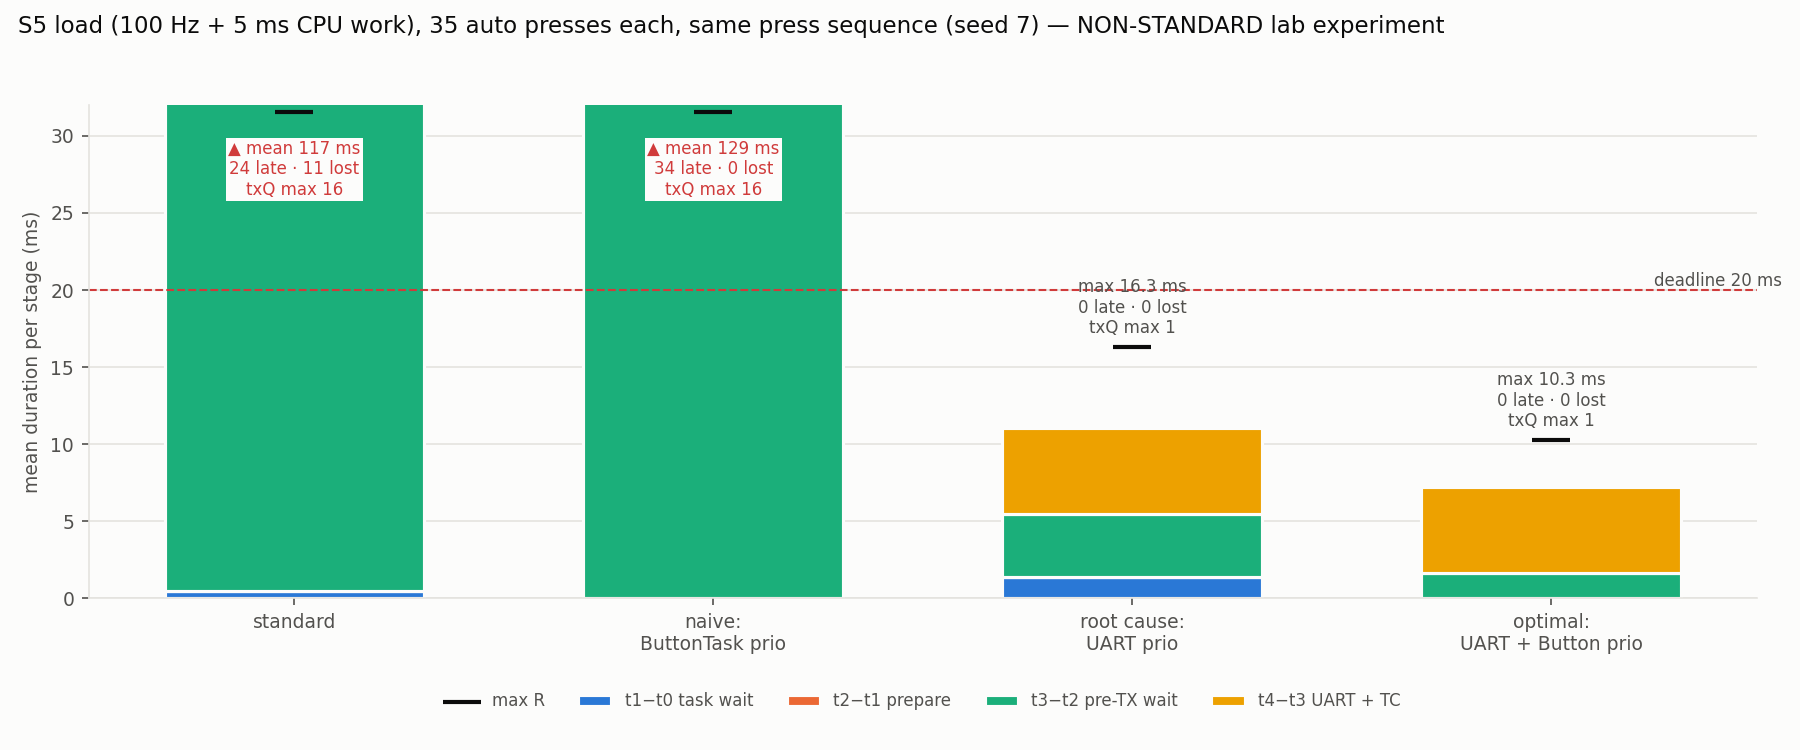
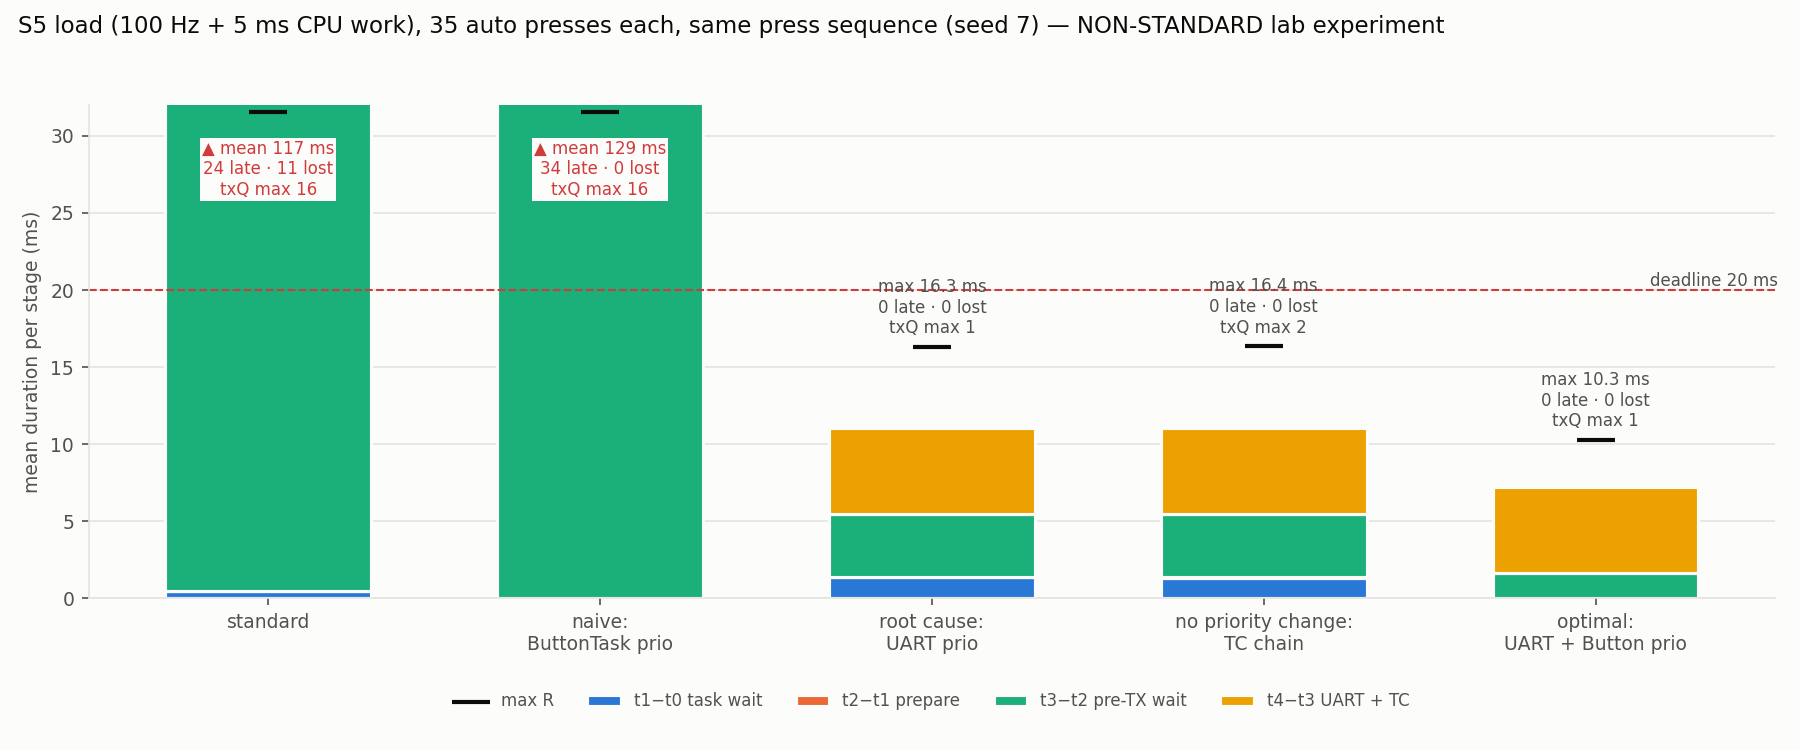
Add TC-chain fix that solves S5 without changing task priorities
- ENABLE_FIX_TC_CHAIN: the TC interrupt starts the next queued message,
  so the line never waits for the priority-1 UART task (fix mask 0x8)
- Measured on S5 with the same seed: 35/35 replies, max R 16.4 ms,
  priorities stay 3 > 2 > 1, smaller telemetry impact than F1
- Added as the fifth option in the lab UI, analysis plot and tests
- Report, ADR-004, README, observations and AI usage updated

diff --git a/hafta-01/firmware/odev01/App/uart_tx.c b/hafta-01/firmware/odev01/App/uart_tx.c
@@ -28,6 +28,14 @@ static volatile bool     s_cur_is_btn;
 static volatile uint32_t s_cur_id;
 static volatile bool     s_tx_failed;
 
+#ifdef ENABLE_FIX_TC_CHAIN
+/* F8: TC kesmesi kuyruktaki sonraki mesajı kendisi başlatır; UART görevinin
+   CPU alması beklenmez, görev öncelikleri değişmez. Zincir boşalınca (ya da
+   sırada export işareti varsa) görev uyandırılır. */
+static volatile bool s_chain_active;
+static bool chain_next_from_isr(BaseType_t *wake);
+#endif
+
 bool uart_tx_post(const TxMsg *m)
 {
     if (xQueueSend(s_txq, m, 0) != pdPASS)
@@ -53,7 +61,7 @@ QueueHandle_t uart_tx_queue(void)
 }
 
 /* s_tx_buf'taki len baytı IT ile gönderir ve TC'yi bekler (ADR-001). */
-static TxResult send_buf(uint16_t len, bool is_btn, uint32_t id)
+static TxResult send_buf(uint16_t len, bool is_btn, uint32_t id, bool chain)
 {
     /* Önceki aktarımdan (ör. timeout sonrası geç gelen TC) kalmış
        bildirimi beklemeden tüket. */
@@ -61,6 +69,11 @@ static TxResult send_buf(uint16_t len, bool is_btn, uint32_t id)
     s_tx_failed = false;
     s_cur_id = id;
     s_cur_is_btn = is_btn;
+#ifdef ENABLE_FIX_TC_CHAIN
+    s_chain_active = chain;
+#else
+    (void)chain;
+#endif
 
     if (is_btn)
     {
@@ -76,6 +89,13 @@ static TxResult send_buf(uint16_t len, bool is_btn, uint32_t id)
     /* TC kesmesini bekle. Gelmezse sonsuza kadar bekleme (R-UART-3). */
     if (ulTaskNotifyTake(pdTRUE, pdMS_TO_TICKS(UART_TX_TIMEOUT_MS)) == 0U)
     {
+#ifdef ENABLE_FIX_TC_CHAIN
+        s_chain_active = false;
+        if (chain && s_cur_is_btn)
+        {
+            records_set_status(s_cur_id, ST_TIMEOUT);   /* zincirin o anki mesajı */
+        }
+#endif
         s_cur_is_btn = false;             /* geç gelen TC t4 yazmasın */
         HAL_UART_AbortTransmit(&huart2);
         g_stats.uart_timeout++;
@@ -85,7 +105,10 @@ static TxResult send_buf(uint16_t len, bool is_btn, uint32_t id)
     {
         return TX_ERROR;
     }
-    g_stats.uart_tx_ok++;
+    if (!chain)
+    {
+        g_stats.uart_tx_ok++;             /* zincirde her TC kesmesinde sayılır */
+    }
     return TX_OK;
 }
 
@@ -93,13 +116,17 @@ static TxResult send_buf(uint16_t len, bool is_btn, uint32_t id)
 void uart_tx_send_line(const char *s, uint16_t len)
 {
     memcpy(s_tx_buf, s, len);
-    (void)send_buf(len, false, 0);
+    (void)send_buf(len, false, 0, false);
 }
 
 static void UartTxTask(void *arg)
 {
     (void)arg;
     TxMsg m;
+    bool chain = false;
+#ifdef ENABLE_FIX_TC_CHAIN
+    chain = (run_config()->fix_mask & FIX_TC_CHAIN) != 0U;
+#endif
 #if APP_LAB_MODE
     lab_start();                          /* RX'i kur, LAB satırını gönder */
 #endif
@@ -120,9 +147,10 @@ static void UartTxTask(void *arg)
 
         memcpy(s_tx_buf, m.data, MSG_LEN);
         const bool is_btn = (m.type == MSG_BTN);
-        TxResult r = send_buf(MSG_LEN, is_btn, m.event_id);
+        TxResult r = send_buf(MSG_LEN, is_btn, m.event_id, chain);
 
-        if (is_btn)
+        /* Zincirde ilk mesajdan sonrakilerin durumu kesmede yazılır. */
+        if (is_btn && (!chain || r == TX_START_ERR))
         {
             if (r == TX_TIMEOUT)
             {
@@ -173,9 +201,52 @@ void HAL_UART_TxCpltCallback(UART_HandleTypeDef *huart)
         s_cur_is_btn = false;
     }
     BaseType_t wake = pdFALSE;
+#ifdef ENABLE_FIX_TC_CHAIN
+    if (s_chain_active)
+    {
+        g_stats.uart_tx_ok++;
+        if (chain_next_from_isr(&wake))
+        {
+            portYIELD_FROM_ISR(wake);     /* zincir sürüyor, görev uyumaya devam */
+            return;
+        }
+        s_chain_active = false;
+    }
+#endif
     vTaskNotifyGiveFromISR(s_task, &wake);
     portYIELD_FROM_ISR(wake);
 }
+
+#ifdef ENABLE_FIX_TC_CHAIN
+/* Kuyrukta veri mesajı varsa alır ve gönderimi başlatır (t3 burada). */
+static bool chain_next_from_isr(BaseType_t *wake)
+{
+    TxMsg next;
+    if (xQueuePeekFromISR(s_txq, &next) != pdPASS || next.type == MSG_CTRL_EXPORT)
+    {
+        return false;                     /* boş ya da export: görev devralır */
+    }
+    (void)xQueueReceiveFromISR(s_txq, &next, wake);
+    memcpy(s_tx_buf, next.data, MSG_LEN);
+    s_cur_id = next.event_id;
+    s_cur_is_btn = (next.type == MSG_BTN);
+    if (s_cur_is_btn)
+    {
+        records_stamp(s_cur_id, T3, timer_us());
+    }
+    if (HAL_UART_Transmit_IT(&huart2, s_tx_buf, MSG_LEN) != HAL_OK)
+    {
+        if (s_cur_is_btn)
+        {
+            records_set_status(s_cur_id, ST_TX_ERROR);
+        }
+        s_cur_is_btn = false;
+        g_stats.uart_start_err++;
+        return false;
+    }
+    return true;
+}
+#endif
 
 void HAL_UART_ErrorCallback(UART_HandleTypeDef *huart)
 {

diff --git a/hafta-01/interface/tests/test_runs.py b/hafta-01/interface/tests/test_runs.py
@@ -3,7 +3,7 @@ import sys
 from pathlib import Path
 
 sys.path.insert(0, str(Path(__file__).resolve().parents[1]))
-from labctl import FIX_BTN_PRIO, FIX_PRESETS, FIX_UART_PRIO, LabConfig, fix_label  # noqa: E402
+from labctl import FIX_BTN_PRIO, FIX_PRESETS, FIX_TC_CHAIN, FIX_UART_PRIO, LabConfig, fix_label  # noqa: E402
 from runs import default_runs  # noqa: E402
 
 RUNS = {r.cfg.get("scenario") + ("/official" if r.official else ""): r for r in default_runs()}
@@ -12,9 +12,10 @@ RUNS = {r.cfg.get("scenario") + ("/official" if r.official else ""): r for r in 
 def test_defaults_include_official_and_lab_runs():
     assert {f"S{i}/official" for i in range(6)} <= set(RUNS)
     assert {"S5a", "S5-F1a", "S5-F4a", "S5-F5a"} <= set(RUNS)
-    assert [m for _, _, m in FIX_PRESETS] == [0, FIX_BTN_PRIO, FIX_UART_PRIO, FIX_UART_PRIO | FIX_BTN_PRIO]
+    assert [m for _, _, m in FIX_PRESETS] == [0, FIX_BTN_PRIO, FIX_UART_PRIO, FIX_TC_CHAIN,
+                                              FIX_UART_PRIO | FIX_BTN_PRIO]
     lab_runs = [r for r in RUNS.values() if not r.official]
-    assert sorted(r.fix for r in lab_runs) == [0, 1, 4, 5]    # yalnızca 4 çözüm
+    assert sorted(r.fix for r in lab_runs) == [0, 1, 4, 5, 8]    # 5 çözüm
 
 
 def test_official_s5_is_diagnosed_as_uart_starvation():
@@ -33,6 +34,14 @@ def test_root_fix_removes_starvation_and_backlog():
     assert not f1.uart_starved()
     assert abs(f1.backlog_slope_ms_per_event()) < 0.5
     assert f1.stat()["late"] == 0 and f1.stat()["lost"] == 0
+
+
+def test_tc_chain_fixes_backlog_without_priority_change():
+    chain = RUNS["S5-F8a"]
+    assert not chain.uart_starved()
+    assert chain.stat()["late"] == 0 and chain.stat()["lost"] == 0
+    prios = {t["name"]: t["prio"] for t in chain.tasks}
+    assert (prios["telemetry"], prios["button"], prios["uart_tx"]) == ("3", "2", "1")
 
 
 def test_naive_fix_alone_keeps_backlog():

diff --git a/hafta-01/interface/lab_app.py b/hafta-01/interface/lab_app.py
@@ -344,7 +344,7 @@ class BudgetChart(Chart):
         self.draw_idle()
 
 
-SHORT_FIX = {0: "standart", 4: "naif", 1: "kök neden", 5: "optimal"}
+SHORT_FIX = {0: "standart", 4: "naif", 1: "kök neden", 8: "TC zinciri", 5: "optimal"}
 
 
 def short_label(run: Run) -> str:
@@ -437,8 +437,9 @@ UART + TC (hatta 5,56 ms).</p>
 görevi yalnızca kalan ~4,95 ms'de mesaj başlatabiliyor; mesaj ise 5,56 ms sürüyor. Hat periyot başına en fazla
 bir mesaj taşıyor, bu da telemetri hızına eşit. Her yanıt hiç erimeyen bir mesaj ekliyor.</p>
 <p><b>Çözümler</b> (lab firmware'i, her biri kendi <code>#ifdef</code> bloğunda): naif ButtonTask önceliği
-(tek başına işe yaramaz: nedeni başka yerde) · <b>kök neden: UART görevinin önceliği</b> · <b>optimal: UART ve
-Button görevleri CPU işinin üstünde</b>.</p>
+(tek başına işe yaramaz: nedeni başka yerde) · <b>kök neden: UART görevinin önceliği</b> · <b>öncelik
+değiştirmeden: TC zinciri</b> (sıradaki mesajı TC kesmesi başlatır; öncelikler 3 &gt; 2 &gt; 1 kalır) ·
+<b>optimal: UART ve Button görevleri CPU işinin üstünde</b>.</p>
 <p><b>CPU işini kesmek hata mı?</b> Öncelik "ne kadar önemli"ye değil "ne kadar acil ve kısa"ya göre verilir.
 Üste alınan görevler mesaj/basış başına yalnızca onlarca µs sürer ve sınırlıdır (basış en fazla ~33/s, mesaj
 ~180/s); CPU işi periyotta ~36 µs uzar ve yine 10 ms'ye rahat sığar. Üstelik UART artık aç kalmadığı için

diff --git a/hafta-01/interface/labctl.py b/hafta-01/interface/labctl.py
@@ -20,10 +20,12 @@ from monitor import DEFAULT_OUT, SerialReader, Session, list_ports, save_export,
 # ---- Çözüm bitleri (app_config.h ile aynı) ---------------------------------
 FIX_UART_PRIO = 0x1   # F1: UartTxTask önceliği 4 (kök neden)
 FIX_BTN_PRIO = 0x4    # F4: ButtonTask önceliği 4 (tek başına naif, F1 ile optimal)
+FIX_TC_CHAIN = 0x8    # F8: sonraki gönderim TC kesmesinden (öncelikler değişmez)
 
 FIX_BITS = {
     FIX_UART_PRIO: "UartTxTask önceliği 1→4",
     FIX_BTN_PRIO: "ButtonTask önceliği 2→4",
+    FIX_TC_CHAIN: "sonraki gönderim TC kesmesinden (öncelikler aynı)",
 }
 
 # Arayüzde gösterilen hazır çözüm seçenekleri: (anahtar, etiket, maske)
@@ -31,6 +33,7 @@ FIX_PRESETS = [
     ("standard", "Standart (ödev tasarımı, yükte hatalı)", 0),
     ("naive", "Naif: ButtonTask önceliğini artır", FIX_BTN_PRIO),
     ("root", "Kök neden: UART görevinin önceliği", FIX_UART_PRIO),
+    ("chain", "Öncelik değiştirmeden: TC zinciri", FIX_TC_CHAIN),
     ("optimal", "Optimal: UART ve Button görevleri CPU işinin üstünde", FIX_UART_PRIO | FIX_BTN_PRIO),
 ]
 FIX_BY_KEY = {k: m for k, _, m in FIX_PRESETS}

diff --git a/hafta-01/firmware/odev01/App/app_config.h b/hafta-01/firmware/odev01/App/app_config.h
@@ -55,12 +55,14 @@
    #ifdef bloğunda; çalışma anında RunConfig.fix_mask ile seçilir. */
 #define ENABLE_FIX_UART_PRIO          /* F1: UartTxTask önceliği 4 (kök neden) */
 #define ENABLE_FIX_BTN_PRIO           /* F4: ButtonTask önceliği 4 (tek başına naif; F1 ile optimal) */
+#define ENABLE_FIX_TC_CHAIN           /* F8: sonraki gönderim TC kesmesinden (öncelik değişmez) */
 #endif
 
-/* fix_mask bitleri. Arayüzdeki 4 seçenek: 0 standart, 4 naif, 1 kök neden,
-   5 optimal (1|4). 0x2 ve 0x8 önceki deneylerde kullanıldı, artık yok. */
+/* fix_mask bitleri: 0 standart, 4 naif, 1 kök neden, 5 optimal (1|4),
+   8 TC zinciri. 0x2 önceki deneylerde kullanıldı, artık yok. */
 #define FIX_UART_PRIO          0x1U
 #define FIX_BTN_PRIO           0x4U
+#define FIX_TC_CHAIN           0x8U
 
 #define PRIO_RAISED            4       /* çözümlerde kullanılan yükseltilmiş öncelik */
 #define PRIO_INJECT            5       /* otomatik basış üreteci (lab), her şeyin üstünde */

diff --git a/hafta-01/interface/runs.py b/hafta-01/interface/runs.py
@@ -134,7 +134,7 @@ class Run:
         if self.period_ms == 0 or self.work_us == 0:
             return False
         free_ms = self.period_ms - self.work_us / 1000
-        return free_ms < LINE_MS and not (self.fix & 0x1)
+        return free_ms < LINE_MS and not (self.fix & 0x1) and not (self.fix & 0x8)
 
     # ---- nedenler --------------------------------------------------------
     def diagnose(self, ev: Event) -> tuple[str, str]:
@@ -259,7 +259,7 @@ def default_runs() -> list[Run]:
             runs.append(load_csv(p, GROUP_OFFICIAL, f"{s} · resmi"))
     lab = meas / "lab"
     if lab.exists():
-        order = {0: 0, 4: 1, 1: 2, 5: 3}
+        order = {0: 0, 4: 1, 1: 2, 8: 3, 5: 4}
         labs = [load_csv(p, GROUP_LAB) for p in sorted(lab.glob("*.csv")) if is_record_csv(p)]
         labs.sort(key=lambda r: (r.period_ms, r.work_us, order.get(r.fix, 99)))
         for r in labs:

diff --git a/hafta-01/analysis/analyze.py b/hafta-01/analysis/analyze.py
@@ -242,7 +242,8 @@ def plot_stage_distribution(data: dict) -> Path:
 # ---------------------------------------------------- standart dışı ek deney --
 
 LAB_ORDER = [("S5a", "standard"), ("S5-F4a", "naive:\nButtonTask prio"),
-             ("S5-F1a", "root cause:\nUART prio"), ("S5-F5a", "optimal:\nUART + Button prio")]
+             ("S5-F1a", "root cause:\nUART prio"), ("S5-F8a", "no priority change:\nTC chain"),
+             ("S5-F5a", "optimal:\nUART + Button prio")]
 
 
 def load_lab() -> list[tuple[str, str, list[dict], dict]]:

diff --git a/hafta-01/docs/adr/ADR-004-lab-modu-ve-cozumler.md b/hafta-01/docs/adr/ADR-004-lab-modu-ve-cozumler.md
@@ -22,9 +22,9 @@ Kısıt: ödevin zorunlu S0–S5 ölçümleri **standart ayarlarla** alındı ve
 1. **Lab modu, derleme bayrağıyla ayrılıyor:** `APP_LAB_MODE` (varsayılan **0**).
    - `0`: resmi derleme. Çözüm kodu ve UART komut kanalı hiç derlenmiyor. S0–S5 bu derlemeyle ölçüldü.
    - `1`: lab derlemesi. Kart **bir kez** yükleniyor. PC arayüzü UART'tan `RUN period=… work=… fix=… inject=…` gönderiyor. Kart ayarı SRAM2'ye yazıp **yeniden başlıyor**, böylece her deney boş kuyruklar, sıfır sayaçlar ve yeni kalibrasyonla başlıyor.
-2. **Her çözüm kendi `#ifdef` bloğunda** (`ENABLE_FIX_UART_PRIO`, `ENABLE_FIX_BTN_PRIO`), çalışma anında `fix_mask` ile seçiliyor. Arayüzde 4 seçenek var: standart (0), naif (F4), kök neden (F1), optimal (F1+F4).
+2. **Her çözüm kendi `#ifdef` bloğunda** (`ENABLE_FIX_UART_PRIO`, `ENABLE_FIX_BTN_PRIO`, `ENABLE_FIX_TC_CHAIN`), çalışma anında `fix_mask` ile seçiliyor. Arayüzde 5 seçenek var: standart (0), naif (F4), kök neden (F1), öncelik değiştirmeden TC zinciri (F8), optimal (F1+F4).
 3. **Otomatik basış** (`inject=1`): EXTI13, yazılımla (`SWIER`) tetikleniyor. Gerçek butonla aynı ISR, aynı 30 ms filtre ve aynı t₀ noktası kullanılıyor. Aralıklar `[gmin, gmax]` içinde sözde rastgele ve `seed` ile tekrarlanabilir. `inject=0` ise elle basış.
-4. **Önerilen çözüm:** F1 + F4, yani UartTxTask ve ButtonTask'ın ikisi de CPU işinin üstünde (öncelik 4).
+4. **Önerilen çözüm:** F1 + F4, yani UartTxTask ve ButtonTask'ın ikisi de CPU işinin üstünde (öncelik 4). **Görev önceliklerinin değişmemesi gerekiyorsa F8 (TC zinciri).**
 
 ## Değerlendirilen çözümler
 
@@ -35,6 +35,7 @@ Hepsi S5 yükünde, 35 otomatik basışla ve **aynı basış dizisiyle** (`seed=
 | 0 | Standart (ödev) | 24/35 | 117 ms | 165 ms | 24 | 16 | Sorunun kendisi |
 | F4 | ButtonTask önceliği 2→4 (naif) | 35/35 | 129 ms | 165 ms | **34** | 16 | Görev beklemesi kalktı, birikim kalmadı değil. **Yanlış yere bakan çözüm** |
 | **F1** | **UartTxTask önceliği 1→4 (kök neden)** | **35/35** | **11,0 ms** | **16,3 ms** | **0** | 1 | Hat bir daha boşta beklemiyor, birikim yok |
+| **F8** | **Sonraki gönderim TC kesmesinden (öncelikler 3 > 2 > 1 aynı)** | **35/35** | **11,0 ms** | **16,4 ms** | **0** | 2 | Kök nedeni öncelik değiştirmeden gideriyor |
 | **F1+F4** | **UART ve Button görevleri CPU işinin üstünde** | **35/35** | **7,2 ms** | **10,3 ms** | **0** | 1 | **En iyisi** |
 
 ### Neden F1+F4?
@@ -43,9 +44,9 @@ Hepsi S5 yükünde, 35 otomatik basışla ve **aynı basış dizisiyle** (`seed=
 - **F4 tek başına işe yaramıyor, ama F1 ile birlikte kalan gecikmeyi alıyor.** F1'den sonra kalan en büyük değişken, basışın hesaplama penceresine denk gelmesi (t₁−t₀ ≤ 5 ms). ButtonTask da işin üstüne alınınca bu kalkıyor ve max R 16,3'ten 10,3 ms'ye iniyor. Kalan süre fizik: hatta o an giden mesaj (≤ 5,56 ms) artı yanıtın kendi 5,56 ms'si.
 - **Kural:** Yanıt yolundaki her görev (ButtonTask → UartTxTask), uzun süren hesaplamadan daha yüksek öncelikli olmalı. Bu görevlerin kendileri kısa sürüyor, uzun işi kesmelerinin maliyeti µs düzeyinde.
 - **CPU işini kesmek hata mı?** Öncelik "ne kadar önemli"ye göre değil, "ne kadar acil ve ne kadar kısa"ya göre verilir (rate/deadline-monotonic yaklaşım). Üste alınan iki görev iş başına yalnızca onlarca µs sürüyor ve CPU kullanımları sınırlı: basışları 30 ms'lik tekrar-kenar filtresi saniyede en fazla ~33 ile sınırlıyor (~%0,1 CPU), UART görevi saniyede en fazla ~180 mesaj başlatabiliyor (~%0,5). CPU işi periyotta ~36 µs uzuyor ve 10 ms'lik periyoduna yine rahatça sığıyor. Üstelik UART artık aç kalmadığı için telemetri kaybı 9'dan 0'a indi: CPU işinin ürettiği veri önceden kayboluyordu. Bu karar ancak üstteki görevlerin CPU kullanımı sınırlı olduğu sürece geçerli. Sınırsız çalışabilen bir görev üste konsaydı CPU işini aç bırakırdı.
-- **Denenip çıkarılanlar:** Üç varyant daha ölçüldü ve tekrar ettikleri için kaldırıldı:
+- **F8 (TC zinciri) öncelik değiştirmeden aynı sonucu veriyor.** Standartta UART bir mesajı bitirince sıradakini başlatmak için UartTxTask'ın CPU alması gerekiyordu. F8'de sıradaki mesajı TC kesmesinin kendisi kuyruktan alıp başlatıyor. Kesme görev önceliklerinden bağımsız çalıştığı için hat boşta beklemiyor. Görev öncelikleri ödevdeki gibi 3 > 2 > 1 kalıyor; kartın gönderdiği TSK kaydı da bunu doğruluyor. Telemetriye etkisi F1'den küçük: ortalama iş 5 054 µs (F1'de 5 086), periyot 9 966–10 031 µs (standartta 9 972–10 031). Sınırı: ButtonTask CPU işinin altında kaldığı için görev beklemesi (≤ 5 ms) sürüyor, bu yüzden en büyük R 16,4 ms. t₃ bu varyantta görevde değil kesmede alınıyor.
+- **Denenip çıkarılanlar:** İki varyant daha ölçüldü ve tekrar ettikleri için kaldırıldı:
   - **BTN yanıtını kuyruğun önüne almak:** geç kalan yok, ama kuyruk dolunca öne de giremediği için 11 yanıt kayboldu. Naif çözümle aynı dersi veriyor.
-  - **Sonraki gönderimi TC kesmesinden başlatmak:** F1 ile aynı sonucu verdi.
   - **F1 + öne alma:** F1 ile birebir aynı sonucu verdi.
 
 ## Sonuçlar

diff --git a/hafta-01/analysis/report.md b/hafta-01/analysis/report.md
@@ -165,11 +165,14 @@ Tahmin etmediğimiz iki şey vardı. Birincisi, gecikmenin **her basışla birik
 | Standart (ödev), otomatik basış | 24/35 | 117,2 | 164,7 | 24 | 9 | 16 |
 | F4: ButtonTask önceliği 4 (naif) | 35/35 | 128,8 | 164,7 | **34** | 20 | 16 |
 | **F1: UartTxTask önceliği 4 (kök neden)** | **35/35** | **11,0** | **16,3** | **0** | 0 | 1 |
+| **F8: TC zinciri (öncelikler değişmez)** | **35/35** | **11,0** | **16,4** | **0** | 0 | 2 |
 | **F1 + F4: yanıt yolu CPU işinin üstünde** | **35/35** | **7,2** | **10,3** | **0** | 0 | 1 |
 
 R değerleri ms cinsinden. Tam tablo: [`measurements/lab/summary.csv`](../measurements/lab/summary.csv).
 
-**Hipotez testi.** §4.4'teki açıklama "gecikmenin nedeni UART görevinin CPU alamaması" diyordu. Bunu doğrulamak için **yalnızca** UART görevinin önceliğini değiştirdik (F1). Birikim tamamen kayboldu: txQ max 16'dan 1'e indi, TX öncesi beklemenin eğimi olay başına +3,4 ms'den (standart, otomatik basış) +0,03 ms'ye düştü, kayıp sıfırlandı. (Öncelik değiştirmeden, sıradaki gönderimi TC kesmesinden başlatan bir varyant da aynı sonucu verdi. Tekrar ettiği için kaldırıldı; bkz. ADR-004.)
+**Hipotez testi.** §4.4'teki açıklama "gecikmenin nedeni UART görevinin CPU alamaması" diyordu. Bunu doğrulamak için **yalnızca** UART görevinin önceliğini değiştirdik (F1). Birikim tamamen kayboldu: txQ max 16'dan 1'e indi, TX öncesi beklemenin eğimi olay başına +3,4 ms'den (standart, otomatik basış) +0,03 ms'ye düştü, kayıp sıfırlandı.
+
+**Öncelik değiştirmeden çözüm (F8).** Görev öncelikleri 3 > 2 > 1 kalırken de aynı sonuç alınabiliyor. Sıradaki mesajı UartTxTask yerine TC kesmesinin kendisi kuyruktan alıp başlatıyor. Kesme, görev önceliklerinden bağımsız olarak hemen çalıştığı için hat boşta beklemiyor. 35 yanıtın hepsi geldi, en büyük R 16,4 ms. Kök neden böylece ikinci, bağımsız bir yoldan da doğrulandı. Telemetriye etkisi F1'den küçük: ortalama iş 5 054 µs, F1'de 5 086 µs. Görev beklemesi (≤ 5 ms) ise kalıyor, çünkü ButtonTask hâlâ CPU işinin altında.
 
 **Naif çözüm neden işe yaramadı?** Teknik sunumdaki *"İlk değişikliğiniz ne olurdu? A: Görevin önceliğini yükseltirim"* sorusunun ölçülmüş cevabı bu. ButtonTask'ı yükseltmek görev beklemesini sıfırladı (t₁−t₀ ort. 0,03 ms), ama ortalama gecikmenin %96'sı TX öncesi beklemedeydi. 34/35 yanıt yine geç geldi. Yanıtlar kuyruğa artık TEL'den önce girdiği için BTN kaybı sıfırlandı, onun yerine 20 TEL kayboldu. Ölçmeden önce ilk yapılacak iş, gecikme bileşenlerini ayırmaktı (sunumdaki C seçeneği).
 

diff --git a/hafta-01/README.md b/hafta-01/README.md
@@ -42,6 +42,7 @@ Kök neden ölçümle doğrulandı ve giderildi ([rapor §8](analysis/report.md#
 | Standart (ödev) | 24/35 | 164,7 ms | 24 |
 | Naif: ButtonTask önceliği ↑ | 35/35 | 164,7 ms | **34** |
 | Kök neden: UartTxTask önceliği ↑ | 35/35 | 16,3 ms | 0 |
+| Öncelik değiştirmeden: TC zinciri | 35/35 | 16,4 ms | 0 |
 | **Optimal: UartTxTask + ButtonTask, CPU işinin üstünde** | **35/35** | **10,3 ms** | **0** |
 
 Bu sonuçlar lab derlemesiyle (`APP_LAB_MODE 1`) alındı. Zorunlu S0–S5 ölçümleri standart derlemeyle alındı ve bu ek deneyden etkilenmiyor.
@@ -127,7 +128,7 @@ Türkçe arayüz, koyu tema (sol üstten açık temaya geçilebilir). Solda dene
 | **Neden geç kaldı?** | Olay listesi (geç ve kayıp olanlar üstte). Seçilen olayın aşama dökümü, 20 ms payı ve ölçümden çıkarılan neden |
 | **Karşılaştır** | İşaretlenen denemelerin aşama ortalamaları yan yana, özet tablo |
 | **Kayıtlar** | Olay bazında tablo, kartın gönderdiği CFG/CNT/TSK değerleri |
-| **Yeni deney** | 1 · Kart, 2 · Yük (senaryo ya da özel periyot + CPU işi), 3 · Çözüm (standart / naif / kök neden / optimal), 4 · Basışlar (otomatik ya da elle, olay sayısı). **Deneyi başlat** dediğinde kart bu ayarlarla yeniden başlar, 5 s ısınır, basışları toplar ve kayıtları gönderir. Sonuç Özet sekmesinde açılır |
+| **Yeni deney** | 1 · Kart, 2 · Yük (senaryo ya da özel periyot + CPU işi), 3 · Çözüm (standart / naif / kök neden / TC zinciri / optimal), 4 · Basışlar (otomatik ya da elle, olay sayısı). **Deneyi başlat** dediğinde kart bu ayarlarla yeniden başlar, 5 s ısınır, basışları toplar ve kayıtları gönderir. Sonuç Özet sekmesinde açılır |
 | **Rehber** | Ölçüm, S5'in neden başarısız olduğu ve çözümler |
 
 - **Açılışta** resmi S0–S5 ölçümleri ve S5 çözüm denemeleri yüklü gelir. Kart bağlı olmasa da incelenebilir.

diff --git a/hafta-01/observations.md b/hafta-01/observations.md
@@ -27,3 +27,5 @@ S0–S4'te beklentilerim tuttu. S5 beni şaşırttı: gecikme her basışta ~10 
 ## Çözüm olarak ne yaptım?
 
 Ayrı bir lab derlemesinde UartTxTask'ın önceliğini 1'den 4'e çıkardım. UART artık hesaplamayı kısa süre kesip sıradaki mesajı hemen başlatabiliyor; birikim kayboldu ve 35 yanıtın hiçbiri 20 ms'yi aşmadı. ButtonTask'ı da yükseltince en büyük R 10,3 ms'ye indi. Yalnızca ButtonTask'ı yükseltmek ise işe yaramadı, çünkü sorun UART'taydı.
+
+Öncelikleri hiç değiştirmeden de çözülebiliyor: sıradaki mesajı görev yerine UART'ın TC kesmesi başlatınca hat boşta beklemiyor. Öncelikler 3 > 2 > 1 kalırken de hiçbir yanıt 20 ms'yi aşmadı (en büyük R 16,4 ms).

diff --git a/hafta-01/docs/ai-usage.md b/hafta-01/docs/ai-usage.md
@@ -37,5 +37,5 @@ Kontroller sırasında birkaç öneri ya da iddia yanlış çıktı ve düzeltil
 
 Tasarım kararları da öneriler arasından seçildi ya da değiştirildi:
 - Zorunlu S0–S5 ölçümleri standart ayarlarla alındı. Çözüm denemeleri ayrı bir derlemeye (`APP_LAB_MODE`) ayrıldı.
-- Yedi çözüm varyantından tekrar edenler çıkarıldı, dört tanesi tutuldu.
+- Yedi çözüm varyantından tekrar edenler çıkarıldı, beş tanesi tutuldu. Öncelik değiştirmeyen TC zinciri, eğitmenin ipucu üzerine yeniden ölçülüp geri eklendi.
 - Arayüz birkaç kez yeniden düzenlendi: önce referanstan farklı bir düzen, sonra Türkçe metinler ve koyu tema, en son tek işli sekmeler.
